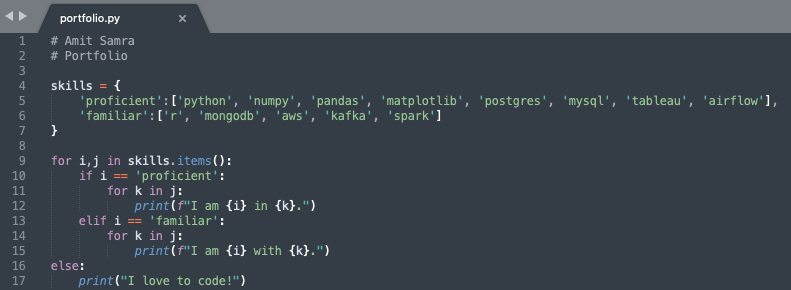
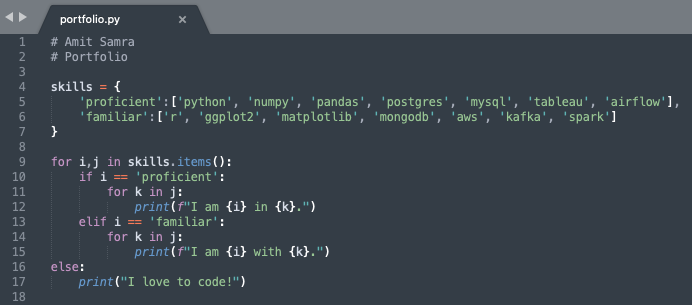
Added ggplot2

diff --git a/portfolio.py b/portfolio.py
@@ -2,9 +2,9 @@
 # Portfolio
 
 skills = {
-	'proficient':['python', 'numpy', 'pandas', 'matplotlib', 'postgres', 'mysql', 'tableau', 'airflow'],
-	'familiar':['r', 'mongodb', 'aws', 'kafka', 'spark']
-	}
+	'proficient':['python', 'numpy', 'pandas', 'postgres', 'mysql', 'tableau', 'airflow'],
+	'familiar':['r', 'ggplot2', 'matplotlib', 'mongodb', 'aws', 'kafka', 'spark']
+}
 
 for i,j in skills.items():
     if i == 'proficient':
